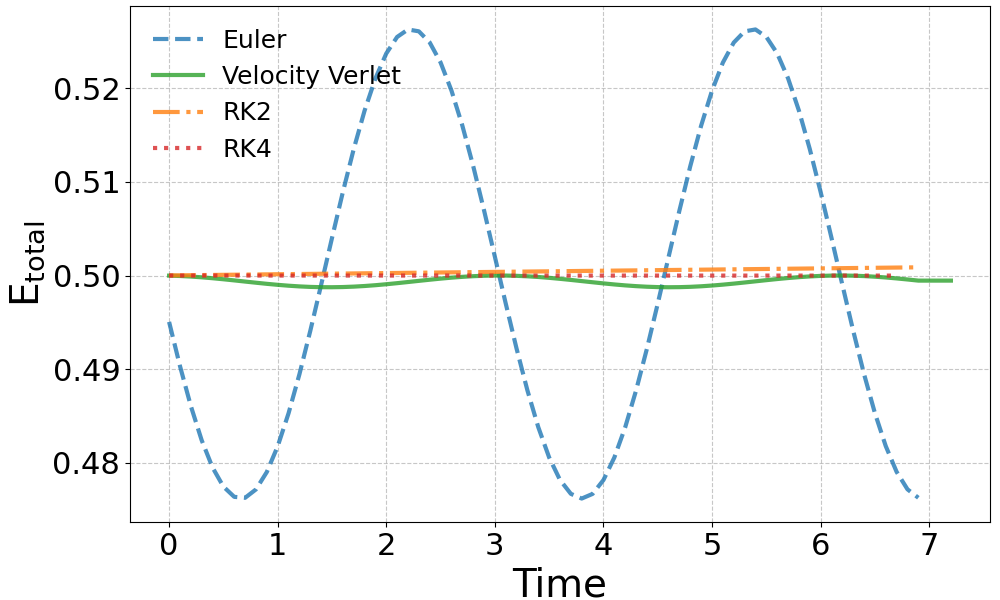
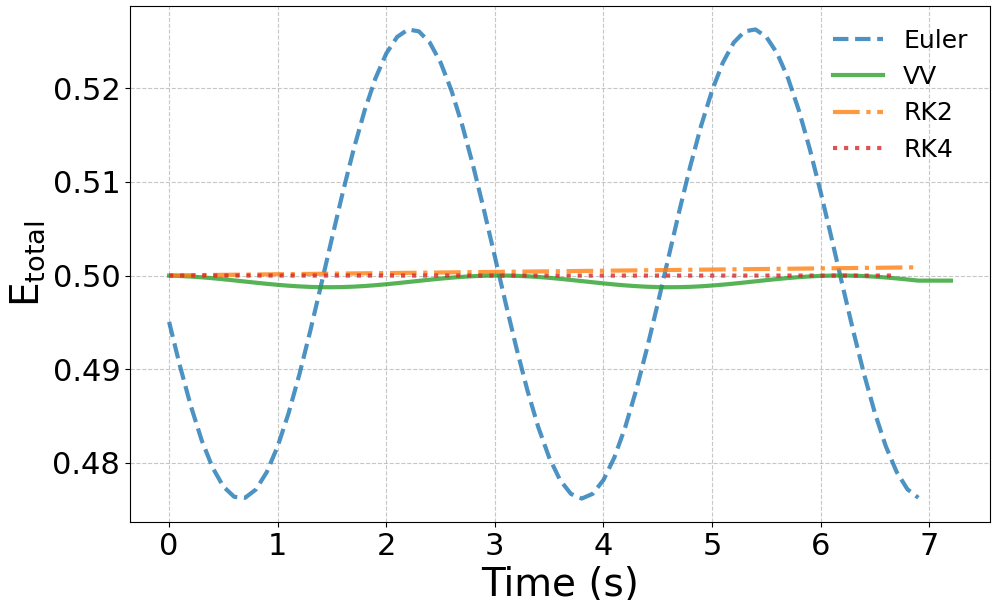
ニュートン法のテスト用のvsmファイルを作成した

diff --git a/banegrowf70.py b/banegrowf70.py
@@ -1,0 +1,56 @@
+def main():
+    filename = "banemasunew.vsm"
+    
+    # 設定
+    max_loop = 70       # ループ回数
+    output_interval = 10 # 何ステップごとに保存するか (10回に1回)
+
+    print(f"VSMファイルを生成します: {filename}")
+
+    with open(filename, "w") as f:
+        # --- 初期化部分 ---
+        # d set で初期値を設定 (h=0.1, x0=1.0, v0=0, etc...)
+        # 長い16進数はそのまま記述します
+        f.write("d set $lm0n0c0b0m0p0 10 3DCCCCCD000000000000000000000000000000000000000000000000000000003F800000000000000000000000000000000000000000000000000000000000003F000000000000000000000000000000\n")
+        f.write('imm f"1.0" $ls0v/1000 #x0=1.0\n')
+        f.write('imm f"0" $lr0v #v0=0\n')
+        f.write("\n")
+
+        lb_addr = 0  # $lb の書き込み先アドレス
+
+        # --- 繰り返し部分 ---
+        for i in range(1, max_loop + 1):
+            # 1. オイラー法による更新 (これは毎ステップ実行)
+            f.write("fvmul -$lm8v $ls0v $nowrite\n")
+            f.write(f"fvfma $ls256v $lm0v $lr0v $lr0v #v({i})\n")
+            f.write("nop\n")
+            f.write(f"fvfma $lr0v $lm0v $ls0v $ls0v #x({i})\n")
+            f.write("nop\n")
+
+            # 2. エネルギー計算とL1BMへの転送 (10ステップに1回だけ実行)
+            if i % output_interval == 0:
+                # エネルギー計算
+                f.write("fvmul $lr0v $lr0v $lr64v\n")      # v^2
+                f.write("fvmul $ls0v $ls0v $nowrite\n")    # x^2 (結果はmaufへ)
+                f.write("nop\n")
+                f.write("fvadd $lr64v $mauf $nowrite\n")   # v^2 + x^2
+                f.write("nop/2\n")
+                f.write("fvmul $lm16v $mauf $nowrite\n")   # 0.5 * (v^2 + x^2)
+                
+                # L1BMに書き込み
+                f.write(f"l1bmm@0 $mauf $lb{lb_addr}\n")
+                
+                # アドレスを4増やす (書き込んだ時だけ増やす)
+                lb_addr += 4
+            
+            f.write("\n") # 可読性のため改行
+
+        # --- 終了処理 ---
+        # 最後の出力サイズ (実際に書き込んだ量 = lb_addr)
+        f.write(f"d getf $lb0n0c0b0 {lb_addr}\n")
+        f.write("d getf $lm0n0c0b0m0p0 16\n")
+
+    print("完了しました。")
+
+if __name__ == "__main__":
+    main()

diff --git a/hex2double.py b/hex2double.py
@@ -1,0 +1,45 @@
+import struct
+import sys
+
+def hex_to_double(hex_str):
+    try:
+        # 入力から 0x や 空白、_ を取り除いてきれいにする
+        clean_hex = hex_str.strip().lower().replace('0x', '').replace('_', '')
+
+        # 桁数チェック (16桁 = 64bit)
+        if len(clean_hex) != 16:
+            return f"エラー: 入力が {len(clean_hex)} 桁です。16桁（64bit）の16進数を入力してください。"
+
+        # 変換 (ビッグエンディアンのdoubleとして解釈)
+        value = struct.unpack('!d', bytes.fromhex(clean_hex))[0]
+        return value
+
+    except ValueError:
+        return "エラー: 有効な16進数の文字(0-9, a-f)のみを使ってください。"
+    except Exception as e:
+        return f"予期せぬエラー: {e}"
+
+if __name__ == "__main__":
+    # パターン1: コマンドライン引数がある場合 (例: python hex2dec.py 3fe...)
+    if len(sys.argv) > 1:
+        input_val = sys.argv[1]
+        print(hex_to_double(input_val))
+        
+    # パターン2: 引数がない場合、対話モードで入力を待つ
+    else:
+        print("--- 16進数(16桁) -> double変換ツール ---")
+        print("変換したい値を入力してください (例: 3fec0e4466666667)")
+        print("終了するには Ctrl+C を押してください。")
+        
+        while True:
+            try:
+                # 入力を受け付ける
+                user_input = input("\n入力 >> ")
+                if not user_input: continue # 空エンターならスキップ
+                
+                result = hex_to_double(user_input)
+                print(f"結果 -> {result}")
+                
+            except KeyboardInterrupt:
+                print("\n終了します。")
+                break

diff --git a/plot_dt_comparison_f70-7000.py b/plot_dt_comparison_f70-7000.py
@@ -5,9 +5,9 @@ import numpy as np
 # --- 設定 ---
 files_config = [
     # { 'filename': 'ファイル名', 'dt': 時間刻み幅, 'label': '凡例ラベル' }
-    {'filename': 'result_f70.txt',   'dt': 0.1,   'label': 'dt=0.1 (70 steps)'},
-    {'filename': 'result_f700.txt',  'dt': 0.01,  'label': 'dt=0.01 (700 steps)'},
-    {'filename': 'result_f7000.txt', 'dt': 0.001, 'label': 'dt=0.001 (7000 steps)'},
+    {'filename': 'resultnew_f70.txt',   'dt': 0.1,   'label': 'dt=0.1 s'},
+    {'filename': 'result_f700.txt',  'dt': 0.01,  'label': 'dt=0.01 s'},
+    {'filename': 'result_f7000.txt', 'dt': 0.001, 'label': 'dt=0.001 s'},
 ]
 
 output_image = 'energy_comparison_dt_final.png'
@@ -48,7 +48,7 @@ for config in files_config:
 # --- グラフの体裁 ---
 
 # ★修正2: 文字サイズを超特大に
-ax.set_xlabel('Time', fontsize=28)
+ax.set_xlabel('Time (s)', fontsize=28)
 ax.set_ylabel('$\mathrm{E}_{\mathrm{total}}$', fontsize=28)
 
 # 目盛りの数字
@@ -58,7 +58,7 @@ ax.tick_params(axis='both', labelsize=22)
 ax.grid(True, which='both', linestyle='--', alpha=0.7)
 
 # ★修正3: 凡例の枠を消す & 文字大きく
-ax.legend(fontsize=18, loc='best', frameon=False)
+ax.legend(fontsize=16,loc='upper right', frameon=False)
 
 # --- 保存 ---
 plt.savefig(output_image)

diff --git a/plot_comparison_cpumncoredoublefloat4.py b/plot_comparison_cpumncoredoublefloat4.py
@@ -81,15 +81,15 @@ try:
     ax.plot(time_axis, totalE_B, label='CPU (Float)', linestyle=':', linewidth=3.0, color='tab:purple')
     
     # 3. MN-Core2 (Double) -> オレンジ, 実線
-    ax.plot(time_axis, totalE_C, label='MN-Core2 (Double)', linewidth=3.0, color='tab:orange')
+    ax.plot(time_axis, totalE_C, label='MN-Core 2 (Double)', linewidth=3.0, color='tab:orange')
 
     # 4. MN-Core2 (Float) -> 緑, 実線
-    ax.plot(time_axis, totalE_D, label='MN-Core2 (Float)', linewidth=3.0, color='tab:green', alpha=0.8)
+    ax.plot(time_axis, totalE_D, label='MN-Core 2 (Float)', linewidth=3.0, color='tab:green', alpha=0.8)
     
     # --- グラフの体裁 (超特大文字) ---
     
     # 軸ラベル
-    ax.set_xlabel('Time', fontsize=28)
+    ax.set_xlabel('Time (s)', fontsize=28)
     ax.set_ylabel('$\mathrm{E}_{\mathrm{total, LJ}}$', fontsize=28)
     
     # 目盛りの数字

diff --git a/plot_4methods.py b/plot_4methods.py
@@ -5,7 +5,7 @@ import numpy as np
 # --- 設定 ---
 files_config = [
     {"file": "result_Euler70.txt", "label": "Euler",           "color": "tab:blue",   "style": "--"},
-    {"file": "resultVV70.txt",     "label": "Velocity Verlet", "color": "tab:green",  "style": "-"},
+    {"file": "resultVV70.txt",     "label": "VV", "color": "tab:green",  "style": "-"},
     {"file": "result_RK270.txt",   "label": "RK2",             "color": "tab:orange", "style": "-."},
     {"file": "result_RK470.txt",   "label": "RK4",             "color": "tab:red",    "style": ":"},
 ]
@@ -51,7 +51,7 @@ for config in files_config:
 # --- グラフの体裁 ---
 
 # ★修正2: 文字サイズをさらに大きく
-ax.set_xlabel('Time', fontsize=28)
+ax.set_xlabel('Time (s)', fontsize=28)
 ax.set_ylabel('$\mathrm{E}_{\mathrm{total}}$', fontsize=28)
 
 # 目盛りの数字
